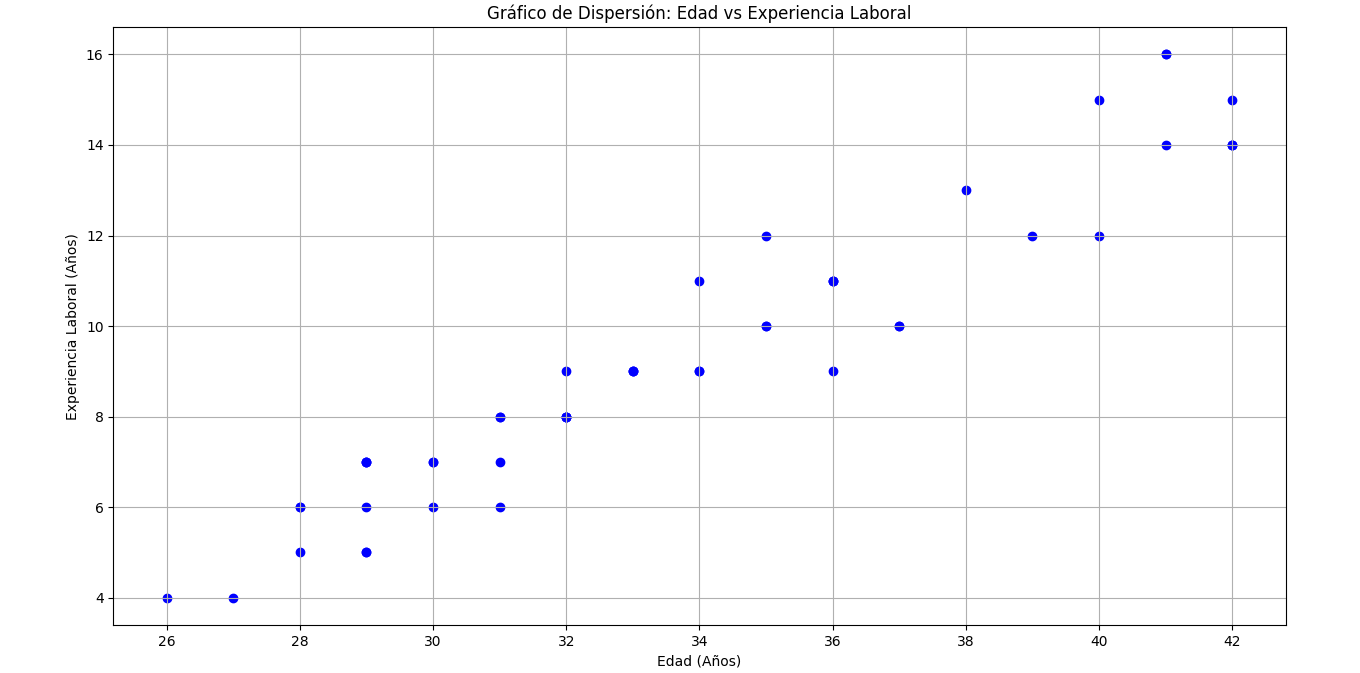
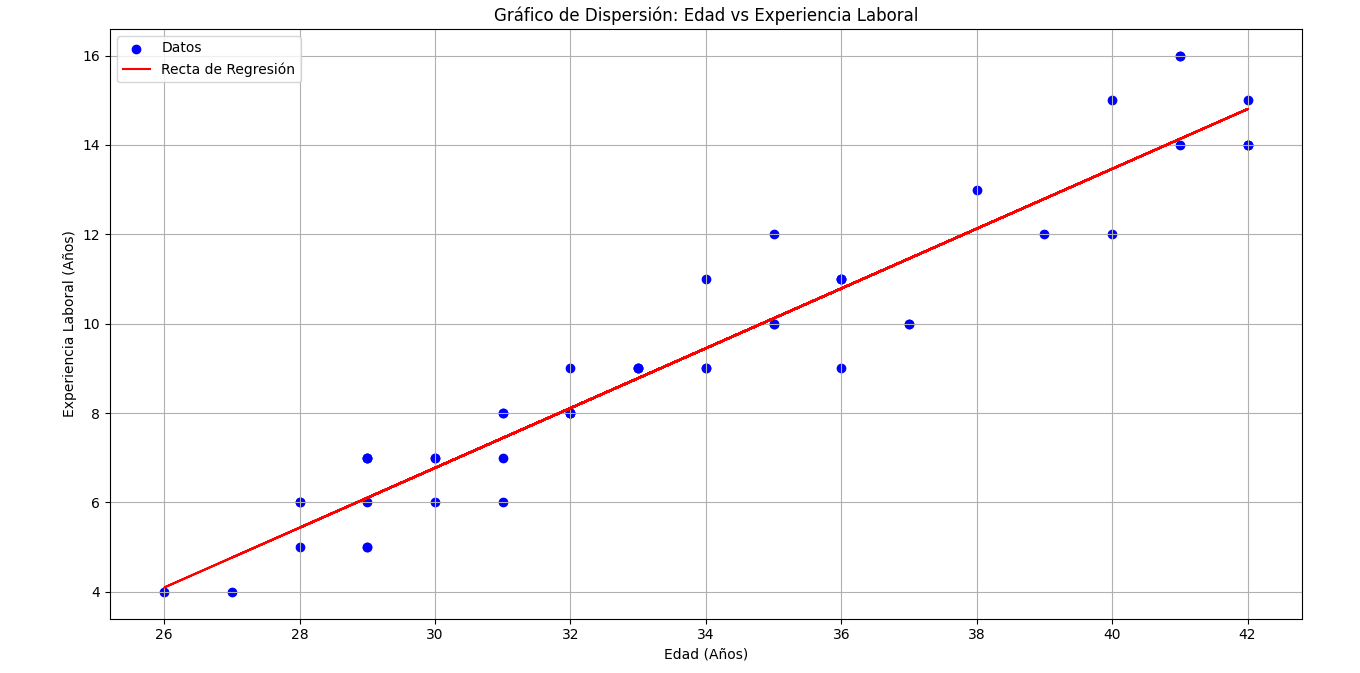
Cambios en el análisis de correlación

diff --git a/Análisis/correlacion_edad_exp_laboral.py b/Análisis/correlacion_edad_exp_laboral.py
@@ -15,15 +15,22 @@ correlacion = np.corrcoef(datos['Edad'], datos['Experiencia_Laboral'])[0][1]
 # Calcular el coeficiente de determinación (R cuadrado)
 coef_determinacion = correlacion ** 2
 
-# Crear el gráfico de dispersión
+# Calcular los parámetros de la regresión lineal (pendiente e intercepto)
+pendiente, intercepto = np.polyfit(datos['Edad'], datos['Experiencia_Laboral'], 1)
+
+# Crear el gráfico de dispersión con la recta de regresión
 plt.figure(figsize=(8, 6))
-plt.scatter(datos['Edad'], datos['Experiencia_Laboral'], color='blue')
+plt.scatter(datos['Edad'], datos['Experiencia_Laboral'], color='blue', label='Datos')
+plt.plot(datos['Edad'], pendiente * datos['Edad'] + intercepto, color='red', label='Recta de Regresión')
 plt.title('Gráfico de Dispersión: Edad vs Experiencia Laboral')
 plt.xlabel('Edad (Años)')
 plt.ylabel('Experiencia Laboral (Años)')
+plt.legend()
 plt.grid(True)
 plt.show()
 
+# Mostrar la información de correlación y recta de regresión
 print(f'Covarianza entre Experiencia Laboral y Edad: {covarianza}')
 print(f'Coeficiente de Correlación Lineal (Pearson): {correlacion}')
 print(f'Coeficiente de Determinación (R cuadrado): {coef_determinacion}')
+print(f'La ecuación de la recta de regresión es: Experiencia Laboral = {pendiente:.4f} * Edad + {intercepto:.4f}')
